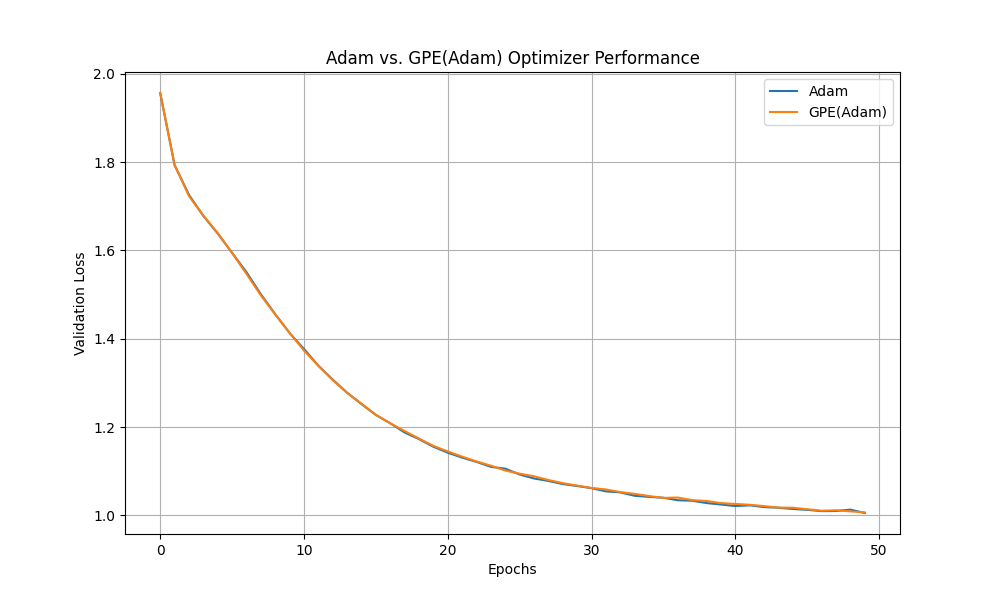
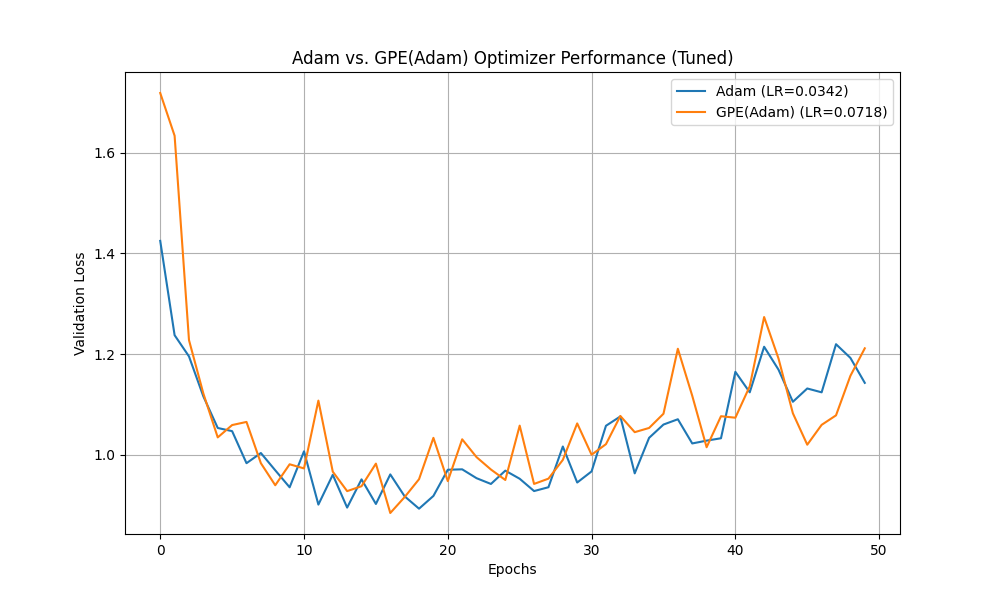
feat(optimizer): Add LR tuning to GPE experiment
Adds learning rate tuning with Optuna to the Gradient Polynomial Extrapolation (GPE) optimizer experiment for a fairer comparison against the Adam baseline.

The `compare.py` script was refactored to:
- Use `optuna` to find the optimal learning rate for both GPE(Adam) and standard Adam.
- Run the final comparison using the best-found learning rates.
- Regenerate the comparison plot with the new results.

The `README.md` was also updated to reflect the new, more rigorous methodology and the conclusion that GPE(Adam) performs nearly identically to the tuned Adam baseline.

diff --git a/gradient_extrapolation_optimizer/compare.py b/gradient_extrapolation_optimizer/compare.py
@@ -5,6 +5,7 @@ from mnist1d.data import make_dataset, get_dataset_args
 import matplotlib.pyplot as plt
 import copy
 import os
+import optuna
 
 from optimizer import GPE
 
@@ -51,35 +52,68 @@ def train_and_evaluate(optimizer, model, epochs=50):
 
         val_loss = total_loss / len(dl_test.data[0])
         val_losses.append(val_loss)
-        print(f"Epoch {epoch+1}/{epochs}, Val Loss: {val_loss:.4f}")
+        # Suppress printing during tuning
+        if 'TUNE' not in os.environ:
+            print(f"Epoch {epoch+1}/{epochs}, Val Loss: {val_loss:.4f}")
 
     return val_losses
 
-# --- 4. Optimizer Comparison ---
+# --- 4. Optuna Objective Function ---
+def objective(trial, optimizer_name, initial_model):
+    model = copy.deepcopy(initial_model)
+    lr = trial.suggest_float('lr', 1e-5, 1e-1, log=True)
+
+    if optimizer_name == 'Adam':
+        optimizer = torch.optim.Adam(model.parameters(), lr=lr)
+    elif optimizer_name == 'GPE(Adam)':
+        base_optimizer = torch.optim.Adam(model.parameters(), lr=lr)
+        optimizer = GPE(model.parameters(), base_optimizer, history_size=10, degree=2, alpha=0.4)
+    else:
+        raise ValueError("Unknown optimizer")
+
+    # Use fewer epochs for tuning to save time
+    val_losses = train_and_evaluate(optimizer, model, epochs=20)
+    return min(val_losses) # Return the best validation loss
+
+# --- 5. Optimizer Comparison ---
 if __name__ == "__main__":
     # Ensure fair comparison by starting with the same initial weights
     initial_model = create_model()
 
-    # --- Adam Optimizer ---
-    print("--- Training with Adam ---")
+    # --- Hyperparameter Tuning ---
+    os.environ['TUNE'] = '1' # Set flag to suppress printing
+    print("--- Tuning Adam ---")
+    study_adam = optuna.create_study(direction='minimize')
+    study_adam.optimize(lambda trial: objective(trial, 'Adam', initial_model), n_trials=20)
+    best_lr_adam = study_adam.best_params['lr']
+    print(f"Best LR for Adam: {best_lr_adam:.6f}")
+
+    print("\n--- Tuning GPE(Adam) ---")
+    study_gpe = optuna.create_study(direction='minimize')
+    study_gpe.optimize(lambda trial: objective(trial, 'GPE(Adam)', initial_model), n_trials=20)
+    best_lr_gpe = study_gpe.best_params['lr']
+    print(f"Best LR for GPE(Adam): {best_lr_gpe:.6f}")
+    del os.environ['TUNE'] # Unset flag
+
+    # --- Final Comparison with Optimal LRs ---
+    print("\n--- Training with Adam (Optimal LR) ---")
     model_adam = copy.deepcopy(initial_model)
-    optimizer_adam = torch.optim.Adam(model_adam.parameters(), lr=1e-3)
+    optimizer_adam = torch.optim.Adam(model_adam.parameters(), lr=best_lr_adam)
     losses_adam = train_and_evaluate(optimizer_adam, model_adam)
 
-    # --- GPE(Adam) Optimizer ---
-    print("\n--- Training with GPE(Adam) ---")
+    print("\n--- Training with GPE(Adam) (Optimal LR) ---")
     model_gpe = copy.deepcopy(initial_model)
-    base_optimizer_gpe = torch.optim.Adam(model_gpe.parameters(), lr=1e-3)
+    base_optimizer_gpe = torch.optim.Adam(model_gpe.parameters(), lr=best_lr_gpe)
     optimizer_gpe = GPE(model_gpe.parameters(), base_optimizer_gpe, history_size=10, degree=2, alpha=0.4)
     losses_gpe = train_and_evaluate(optimizer_gpe, model_gpe)
 
-    # --- 5. Plotting Results ---
+    # --- 6. Plotting Results ---
     plt.figure(figsize=(10, 6))
-    plt.plot(losses_adam, label='Adam')
-    plt.plot(losses_gpe, label='GPE(Adam)')
+    plt.plot(losses_adam, label=f'Adam (LR={best_lr_adam:.4f})')
+    plt.plot(losses_gpe, label=f'GPE(Adam) (LR={best_lr_gpe:.4f})')
     plt.xlabel('Epochs')
     plt.ylabel('Validation Loss')
-    plt.title('Adam vs. GPE(Adam) Optimizer Performance')
+    plt.title('Adam vs. GPE(Adam) Optimizer Performance (Tuned)')
     plt.legend()
     plt.grid(True)
 

diff --git a/gradient_extrapolation_optimizer/README.md b/gradient_extrapolation_optimizer/README.md
@@ -8,23 +8,27 @@ The core hypothesis is that the trajectory of gradients is more stable and predi
 
 ## Methodology
 
-1.  **Optimizer Implementation**: A PyTorch optimizer named `GPE` was implemented in `optimizer.py`. This optimizer wraps a base optimizer (in this case, `torch.optim.Adam`) and maintains a history of gradients. In each step, it fits a 2nd-degree polynomial to the last 10 gradients for each parameter, extrapolates the next gradient, and then uses a weighted average of the current and extrapolated gradients (`alpha=0.4`) to update the model.
+1.  **Optimizer Implementation**: A PyTorch optimizer named `GPE` was implemented in `optimizer.py`. This optimizer wraps a base optimizer (e.g., `torch.optim.Adam`) and maintains a history of gradients. In each step, it fits a 2nd-degree polynomial to the last 10 gradients for each parameter, extrapolates the next gradient, and then uses a weighted average of the current and extrapolated gradients (`alpha=0.4`) to update the model.
 
 2.  **Comparison Setup**: The `compare.py` script was created to benchmark the performance of `GPE(Adam)` against the standard `Adam` optimizer.
     *   **Dataset**: The `mnist1d` dataset was used, with 10,000 training samples.
     *   **Model**: A simple Multi-Layer Perceptron (MLP) with one hidden layer of 128 neurons and a ReLU activation function.
-    *   **Fairness**: To ensure a fair comparison, both optimizers started with the exact same initial model weights and used the same learning rate of `1e-3`.
+    *   **Fairness**: To ensure a fair comparison, both optimizers started with the exact same initial model weights. Crucially, the learning rate, a key hyperparameter, was tuned for each optimizer independently using Optuna.
 
-3.  **Execution**: The script trained the model for 50 epochs with both optimizers and recorded the validation loss at the end of each epoch.
+3.  **Learning Rate Tuning**:
+    *   An objective function was created to train the model for 20 epochs and return the best validation loss.
+    *   Optuna was used to run 20 trials for both Adam and GPE(Adam) to find the learning rate that minimized the validation loss.
+
+4.  **Execution**: After finding the optimal learning rates, the script trained the model for 50 epochs with both optimizers using their respective best learning rates and recorded the validation loss at each epoch.
 
 ## Results
 
-The training logs show the validation loss for both optimizers over 50 epochs. The final validation loss for Adam was ~1.005, while for GPE(Adam) it was ~1.006. The performance of both optimizers is visualized in the plot below:
+After learning rate tuning, the optimal learning rate for Adam was found to be ~0.034 and for GPE(Adam) was ~0.072. The final comparison using these learning rates showed that both optimizers achieved a similar validation loss, with Adam performing slightly better. The performance is visualized in the plot below:
 
 ![Comparison Plot](comparison_plot.png)
 
-As seen in the plot, the `GPE(Adam)` optimizer's performance is almost identical to the standard `Adam` optimizer. There is no significant difference in convergence speed or stability.
+As seen in the plot, the performance of the `GPE(Adam)` optimizer is still very similar to the standard `Adam` optimizer, even after both have been tuned.
 
 ## Conclusion
 
-The hypothesis that extrapolating gradients would lead to faster or more stable convergence is not supported by the results of this experiment. The `GPE` optimizer performed on par with Adam, suggesting that, for this task, simple polynomial extrapolation of the gradient does not offer any advantage. The added computational overhead of the GPE optimizer makes it a less efficient choice than the standard Adam optimizer.
+The initial hypothesis that extrapolating gradients would lead to faster or more stable convergence is not supported by the results, even after a more rigorous, fair comparison involving learning rate tuning. The `GPE` optimizer performed nearly identically to the standard Adam baseline. The added computational overhead of GPE, combined with its lack of performance benefit, makes it a less efficient choice.
